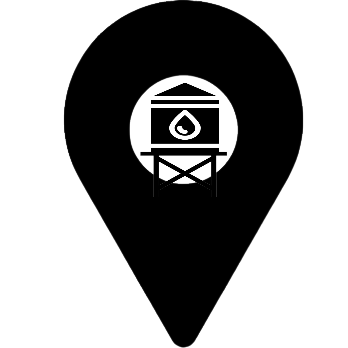
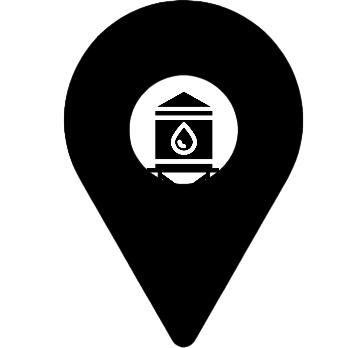
icone reservoir

Changed region(s): [[0.4023, 0.2299, 0.6609, 0.546]]

diff --git a/client/src/guest/components/map/Map.js b/client/src/guest/components/map/Map.js
@@ -1,6 +1,6 @@
 import React, { useEffect } from "react";
 import { useSelector } from "react-redux";
-import { iconRobinet, iconMaison } from "../icon/IconLeaflet";
+import { iconRobinet, iconMaison, iconReservoir } from "../icon/IconLeaflet";
 import { MapContainer, TileLayer, ScaleControl, FeatureGroup, Marker, Popup } from "react-leaflet";
 const Map = (props) => {
   const myStation = useSelector((state) => state.station)
@@ -11,7 +11,8 @@ const Map = (props) => {
   function valeurIcon(s) {
     let myIcon; let myText
     if (s.infra_eau === "aepp") { myIcon = iconMaison(); myText = " Station " }
-    if (s.infra_eau === "reservoir") { myIcon = iconRobinet(); myText = "  Reservoir " }
+    if (s.infra_eau === "reservoir") { myIcon = iconReservoir(); myText = " Reservoir " }
+    if (s.infra_eau === "bf") { myIcon = iconRobinet(); myText = " Borne fontaine " }
     return (
       <Marker position={{ lat: s.latitude, lng: s.longitude }} icon={myIcon}>
         <Popup>

diff --git a/client/src/guest/components/icon/IconLeaflet.js b/client/src/guest/components/icon/IconLeaflet.js
@@ -1,5 +1,13 @@
 import L from 'leaflet';
 import 'leaflet/dist/leaflet.css';
+export function iconReservoir() {
+  return (
+    new L.Icon({
+      iconUrl: require('../../assets/imagesClient/reservoir_noir.png'),
+      iconSize: [35, 40],
+      shadowSize: [50, 64]
+    }))
+}
 export function iconRobinet() {
   return (
     new L.Icon({
